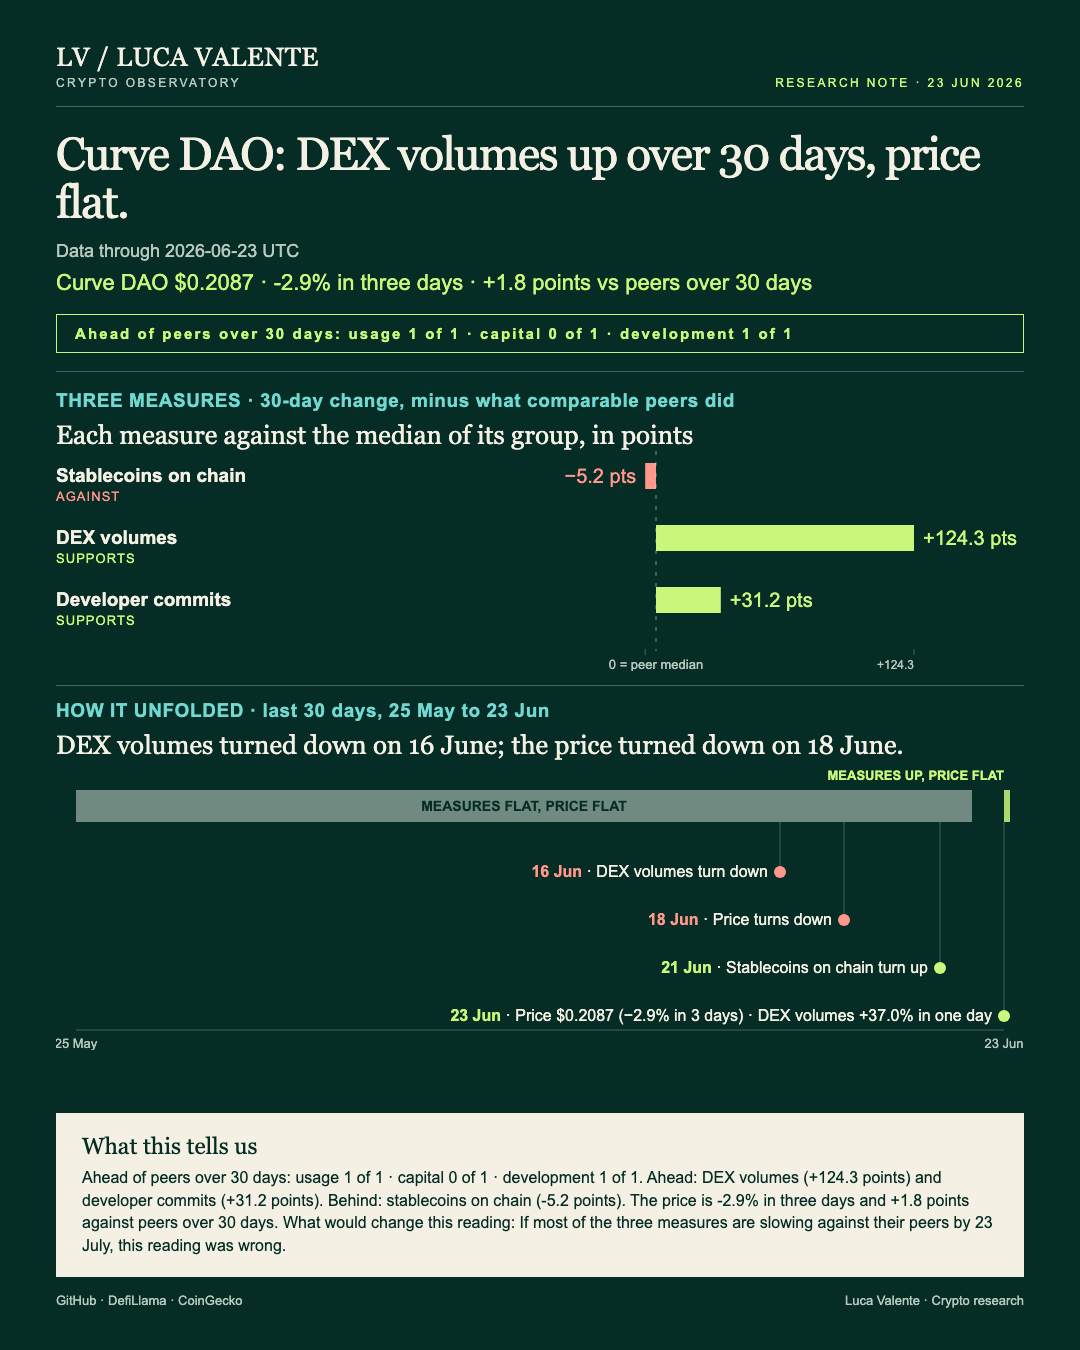
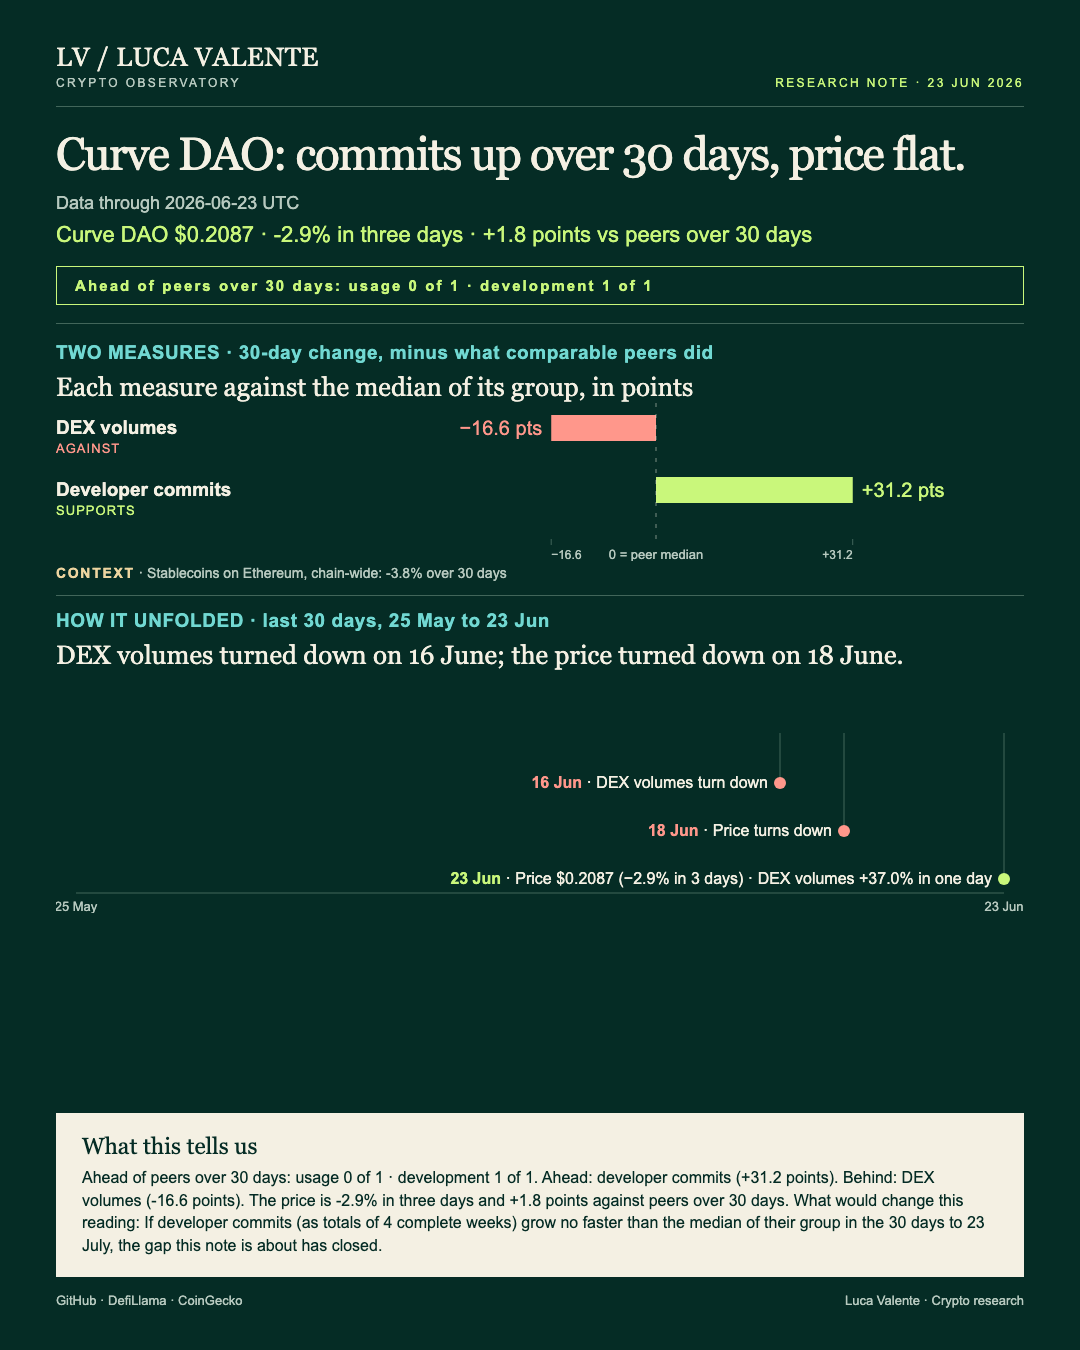
Nono giro: P48b Curve DAO sostituisce P48 nel Training (stessa pagina)

diff --git a/p48-curve-dao-token-2026-06-23.html b/p48-curve-dao-token-2026-06-23.html
@@ -1,8 +1,8 @@
 <!doctype html>
 <html lang="en"><head><meta charset="utf-8">
 <meta name="viewport" content="width=device-width, initial-scale=1">
-<title>One Chart From Curve&#x27;s Month, And A Price In Step With Peers · Luca Valente · Crypto research</title>
-<meta name="description" content="Trading on Curve outpaced the median exchange in its group by 124.3 points this past month, while its token moved with the pack.">
+<title>31.2 Points Ahead On Code At Curve, Close To Its Group On Price · Luca Valente · Crypto research</title>
+<meta name="description" content="Curve&#x27;s code changes grew 31.2 points faster than its peers&#x27; over the past month, while its token fell about as far as theirs.">
 <meta name="robots" content="noindex">
 <link rel="alternate" type="application/rss+xml" title="Luca Valente · Crypto research" href="feed.xml">
 <link rel="stylesheet" href="stile.css">
@@ -11,20 +11,23 @@
   <div class="marchio"><a href="index.html">LV / LUCA VALENTE<small>CRYPTO RESEARCH</small></a></div>
   <nav><a href="index.html">Notes</a> <a href="archive.html">Archive</a> <a href="training.html" class="attiva">Training</a> <a href="about.html">About</a></nav>
 </header>
-<main><article class="pezzo"><p class="training">Training note, written on 24 September 2026 from data as of 23 June 2026. Not part of the published series.</p><div class="pezzo-data">23 June 2026</div><h1>One Chart From Curve&#x27;s Month, And A Price In Step With Peers</h1><figure class="copertina"><img src="immagini/p48-curve-dao-token-2026-06-23/curve-dao-token_1080x1350.png" alt=""></figure><p>Trading on Curve outpaced the median exchange in its group by 124.3 points this past month, while its token moved with the pack.</p>
-<p>Anyone holding CRV has a gap to follow: trading and code work grew fast, the token did not. Curve DAO is a decentralised exchange on Ethereum, and CRV is its token.</p>
-<p>I read three measures apart: trading volume for usage, stablecoins for capital, commits for development. Each faces the median of those among the 27 exchanges in its group that report it, Curve included.</p>
-<p>If I could keep one chart, it would be trading volume, the dollars swapped on Curve each day. It went from $45 million on 24 May to $110 million on 23 June. That is +144.6%, against +20.3% for the median of all 27.</p>
-<figure><img src="immagini/p48-curve-dao-token-2026-06-23/curve-dao-token_volume_dex_1600x900.png" alt="" loading="lazy"></figure>
-<p>Volumes turned lower on 16 June and fell on 5 of 8 days to 23 June. On 23 June alone they rose 37.0%. That turn makes me less sure.</p>
-<p>Commits, the code changes logged weekly in Curve&#x27;s public repositories, moved first. They turned down in the week starting 17 May and fell in 3 of the next 5. Yet 340 were logged in the week starting 14 June, the most in 12 weeks. Over 30 days they rose 39.4%, against 8.2% for the median of the 11 that report them.</p>
+<main><article class="pezzo"><p class="training">Training note, written on 24 September 2026 from data as of 23 June 2026. Not part of the published series.</p><div class="pezzo-data">23 June 2026</div><h1>31.2 Points Ahead On Code At Curve, Close To Its Group On Price</h1><figure class="copertina"><img src="immagini/p48-curve-dao-token-2026-06-23/curve-dao-token_1080x1350.png" alt=""></figure><p>Curve&#x27;s code changes grew 31.2 points faster than its peers&#x27; over the past month, while its token fell about as far as theirs. Anyone who holds CRV or swaps on Curve sees two signals that disagree. Here is what would make me stop trusting the first.</p>
+<p>Think of Curve as a place to swap tokens on Ethereum with no broker in the middle. CRV is its token. The data holds just two measures for Curve itself. The cover draws both as bars against the median of a group of 26 entities, Curve included.</p>
+<p>Green is commits, each one a change to Curve&#x27;s code, recorded in its public repositories and counted by week. That bar stands 31.2 points above the median. Red is trading volume: the value DefiLlama records as swapped through Curve&#x27;s pools, each trade counted once, deposits and withdrawals left out. It sits 16.6 points below.</p>
+<p>Commits are summed here over four complete weeks. The four to 20 June held 1,255, against 900 in the four to 23 May: up 39.4%. Only 11 of the 26 report commits, Curve included, and their median rose 8.2%. That puts Curve 31.2 points ahead.</p>
+<p>Set against its own history, that gap stands high. In the last 90 days, its middle half ran from zero to 18.3 points. Today&#x27;s reading sits above that band. That is why I give it weight.</p>
+<p>Week by week, the line is less tidy. Of commits, volume and price, it turned down first, in the week of 17 May. It fell in 2 of the next 4 weeks, yet the four-week total still ended 39.4% higher. The last complete week hit 340 commits, the most in twelve weeks, up from 285 the week before.</p>
 <figure><img src="immagini/p48-curve-dao-token-2026-06-23/curve-dao-token_commit_1600x900.png" alt="" loading="lazy"></figure>
-<p>CRV closed 23 June at $0.2087, down 10.9% in 30 days. The median of the 11 listed tokens lost 12.7%: CRV is 1.8 points better, level with its peers. It turned lower on 18 June and fell on 5 of the 6 days from then, 2.9% over the last three. Nothing here links the token to the trading.</p>
-<p>These leads come with a test. If most of the three measures are slowing against their peers by 23 July, this reading was wrong. The claim is narrow: trading and code work climbing, the token level with its group. If two of the three lose ground on peers, that lead is gone.</p>
-<p>Ethereum&#x27;s stablecoins go against this note. They measure the chain Curve runs on, not Curve. At $157.90 billion on 23 June, they were down 3.8% in 30 days. The median of the 24 that report them rose 1.5%. They have risen three days running from 21 June, +0.0% on the last. I weigh them below Curve&#x27;s own two measures.</p>
-<p>Left out: value locked, fees, users and wallets. I did not look at them: the data here has none for Curve. Nor does it carry news or reasons. It ends on 23 June 2026.</p>
-<p>Back to the one chart: its month is the case, its turn on 16 June the case against.</p>
-<p>Sources: DefiLlama (DEX volumes, stablecoins on Ethereum), CoinGecko (CRV price), GitHub (commits).</p>
+<p>CRV closed 23 June at $0.2087, 10.9% below the $0.2342 of 24 May, end of window against start. The median of the 11 group members with a listed price, Curve included, fell 12.7%. CRV sits 1.8 points above it. On the cover&#x27;s timeline the price turns down on 18 June, and it ends 2.9% below its level three days earlier.</p>
+<p>That leaves a clear split. Code work pulled away from the group, and the price stayed with it. The question for the month ahead is whether the split closes. Three things could talk me out of it.</p>
+<p>Trading volume is the first, and the only measure here against the reading; the cover&#x27;s timeline shows it turning down on 16 June. Summing the 30 days to 23 June against the 30 to 24 May, it fell from $4.17 billion to $3.72 billion: down 10.8%. The group&#x27;s median rose 5.9%, leaving Curve 16.6 points behind. Volume is the thing people actually do on an exchange.</p>
+<p>At first I read the jump on 23 June as the objection fading: 37.0% in one day, to $110 million. It isn&#x27;t. The 30 days to 23 June include that day and still add up 10.8% lower.</p>
+<figure><img src="immagini/p48-curve-dao-token-2026-06-23/curve-dao-token_volume_dex_1600x900.png" alt="" loading="lazy"></figure>
+<p>Still, volume leaves the reading standing. Trading, capital and code work are separate families here, read one at a time, and this note is about code against price. What volume does say is that the extra code has no match in trading this month.</p>
+<p>What the data leaves out is the second. It has no value locked, no fees and no count of users or wallets for Curve. Capital appears only as stablecoins on all of Ethereum, down 3.8% over 30 days, and that describes the chain, not Curve. Nothing here explains any move, and nothing runs past 23 June.</p>
+<p>Above all, I want to know what those 1,255 commits delivered to people trading on Curve. These numbers cannot say. Before calling this more than a busy stretch, I would need a second month like it.</p>
+<p>Last comes the commit line. Since volume already disagrees with me, code work carries this note alone. If developer commits (as totals of 4 complete weeks) grow no faster than the median of their group in the 30 days to 23 July, the gap this note is about has closed. Everything rests on code growing faster than its group while the price keeps pace; lose that edge and the gap is gone.</p>
+<p>Sources: GitHub (commits), DefiLlama (trading volume, stablecoins on Ethereum), CoinGecko (price).</p>
 <p class="pari">Peer group: 26 exchanges tracked by DefiLlama (<a href="peers.html#dexs">who they are</a>). 'Net of the group' is the 30-day change minus the group's median.</p>
 <p>Not financial advice. This is a research note based on public on-chain data.</p></article></main>
 <footer class="piede">

diff --git a/training.html b/training.html
@@ -127,8 +127,8 @@
   <a class="voce-immagine" href="p48-curve-dao-token-2026-06-23.html"><img src="immagini/p48-curve-dao-token-2026-06-23/curve-dao-token_1080x1350.png" alt="" loading="lazy"></a>
   <div class="voce-testo">
     <div class="voce-data">23 June 2026</div>
-    <h2><a href="p48-curve-dao-token-2026-06-23.html">One Chart From Curve&#x27;s Month, And A Price In Step With Peers</a></h2>
-    <p>Trading on Curve outpaced the median exchange in its group by 124.3 points this past month, while its token moved with the pack.</p>
+    <h2><a href="p48-curve-dao-token-2026-06-23.html">31.2 Points Ahead On Code At Curve, Close To Its Group On Price</a></h2>
+    <p>Curve&#x27;s code changes grew 31.2 points faster than its peers&#x27; over the past month, while its token fell about as far as theirs.</p>
   </div>
 </article>
 <article class="voce">
